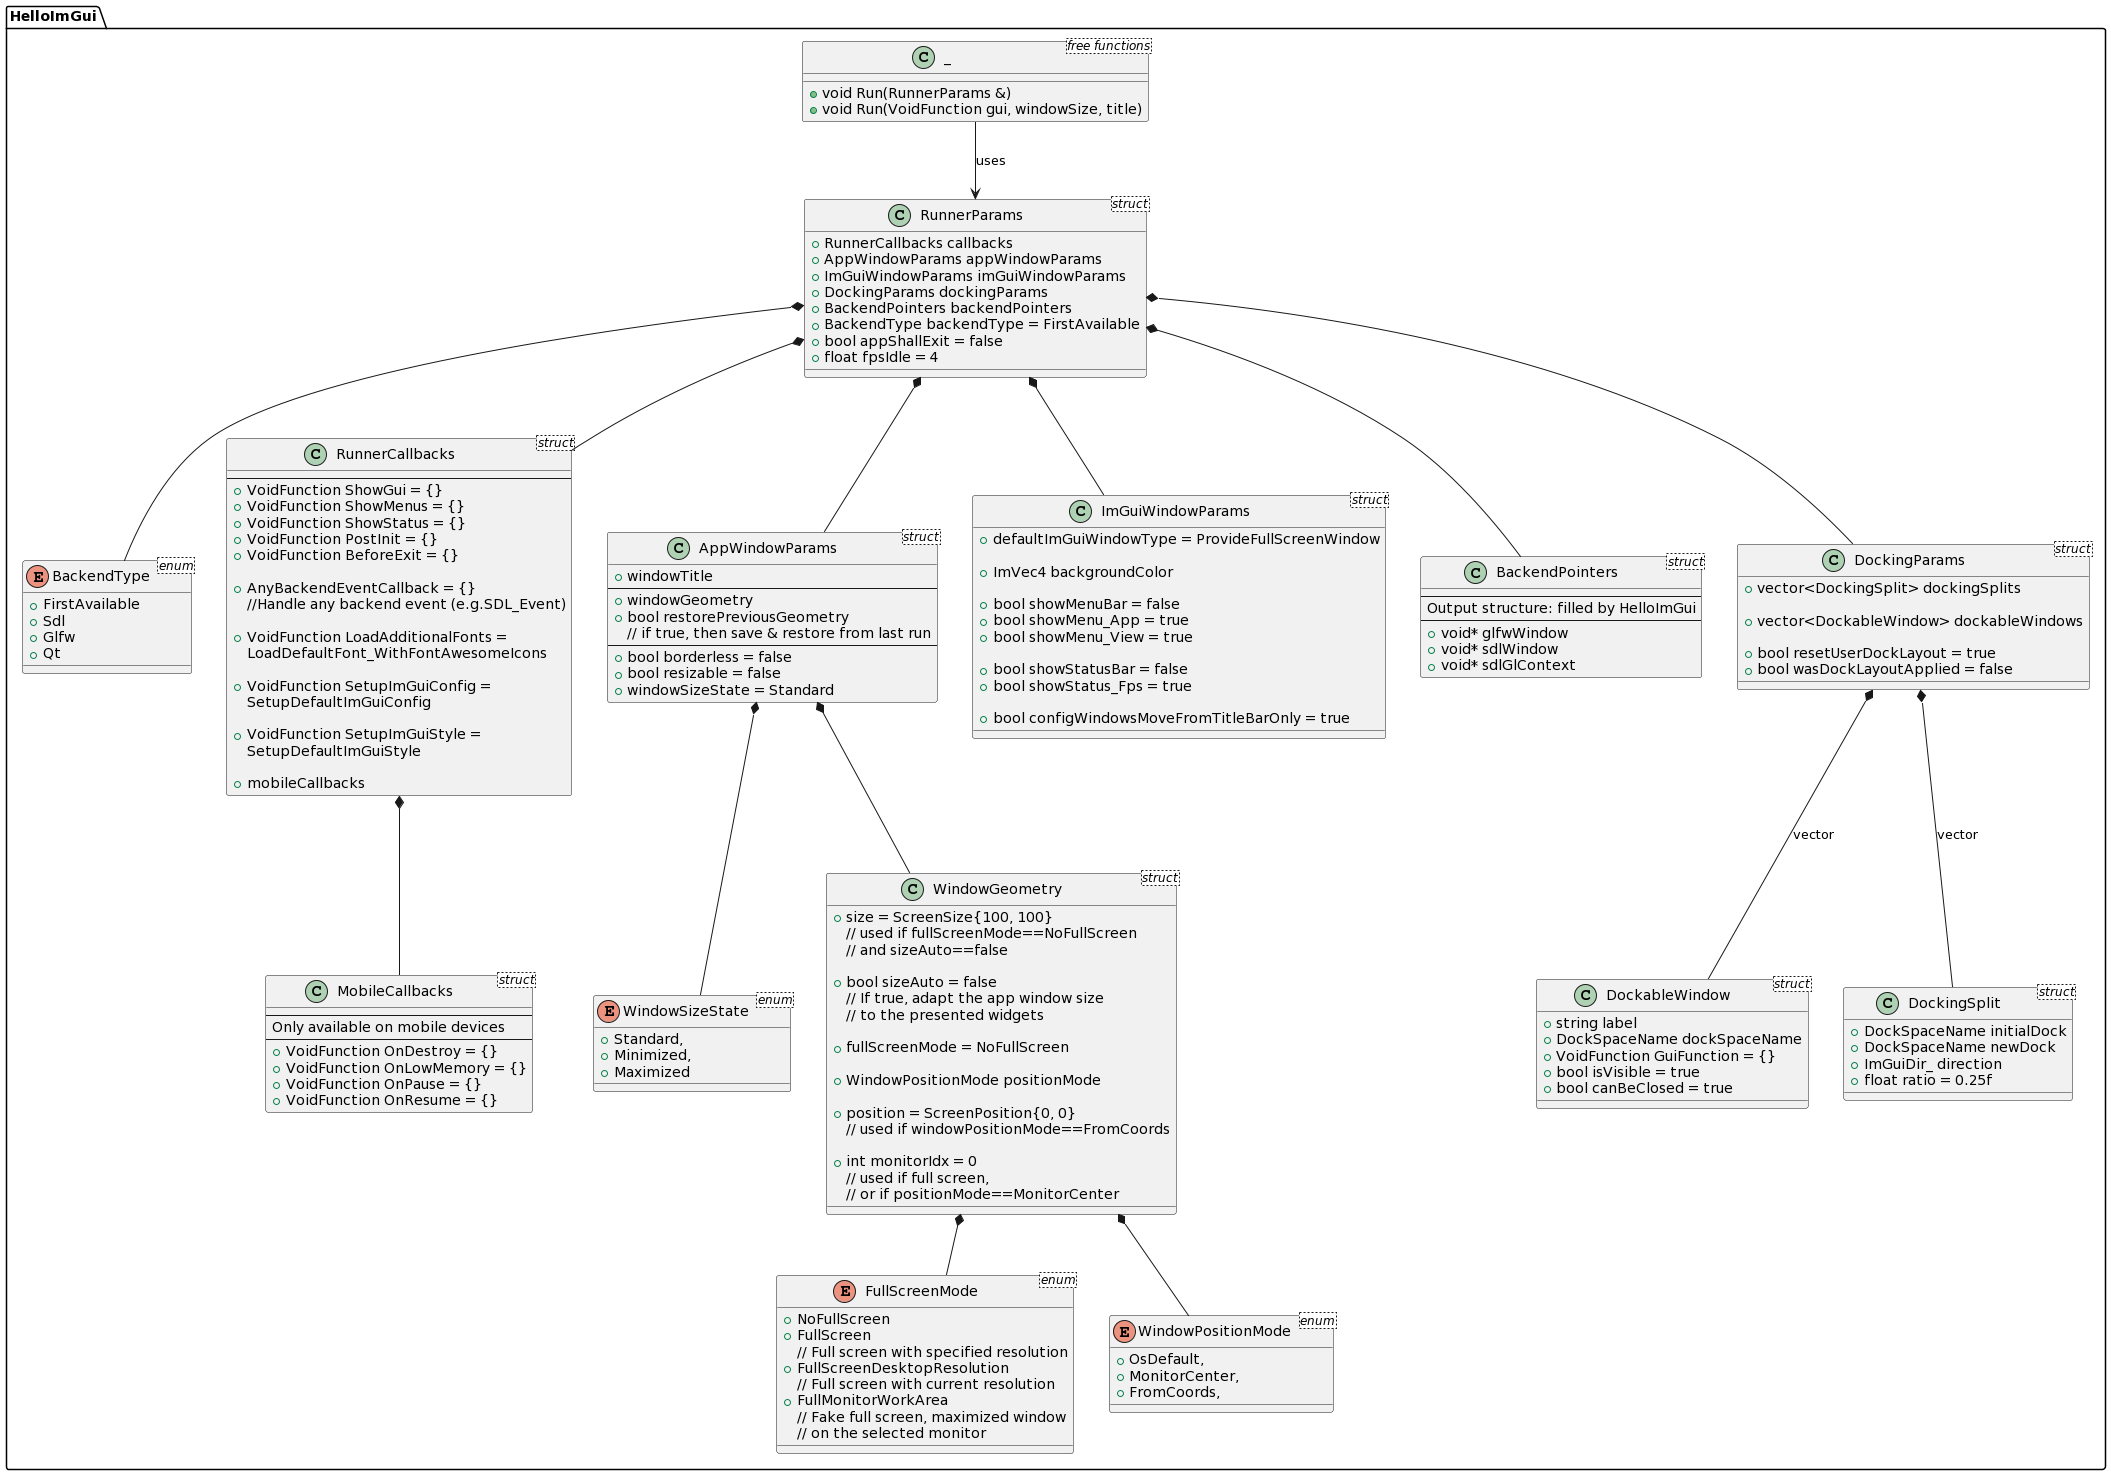
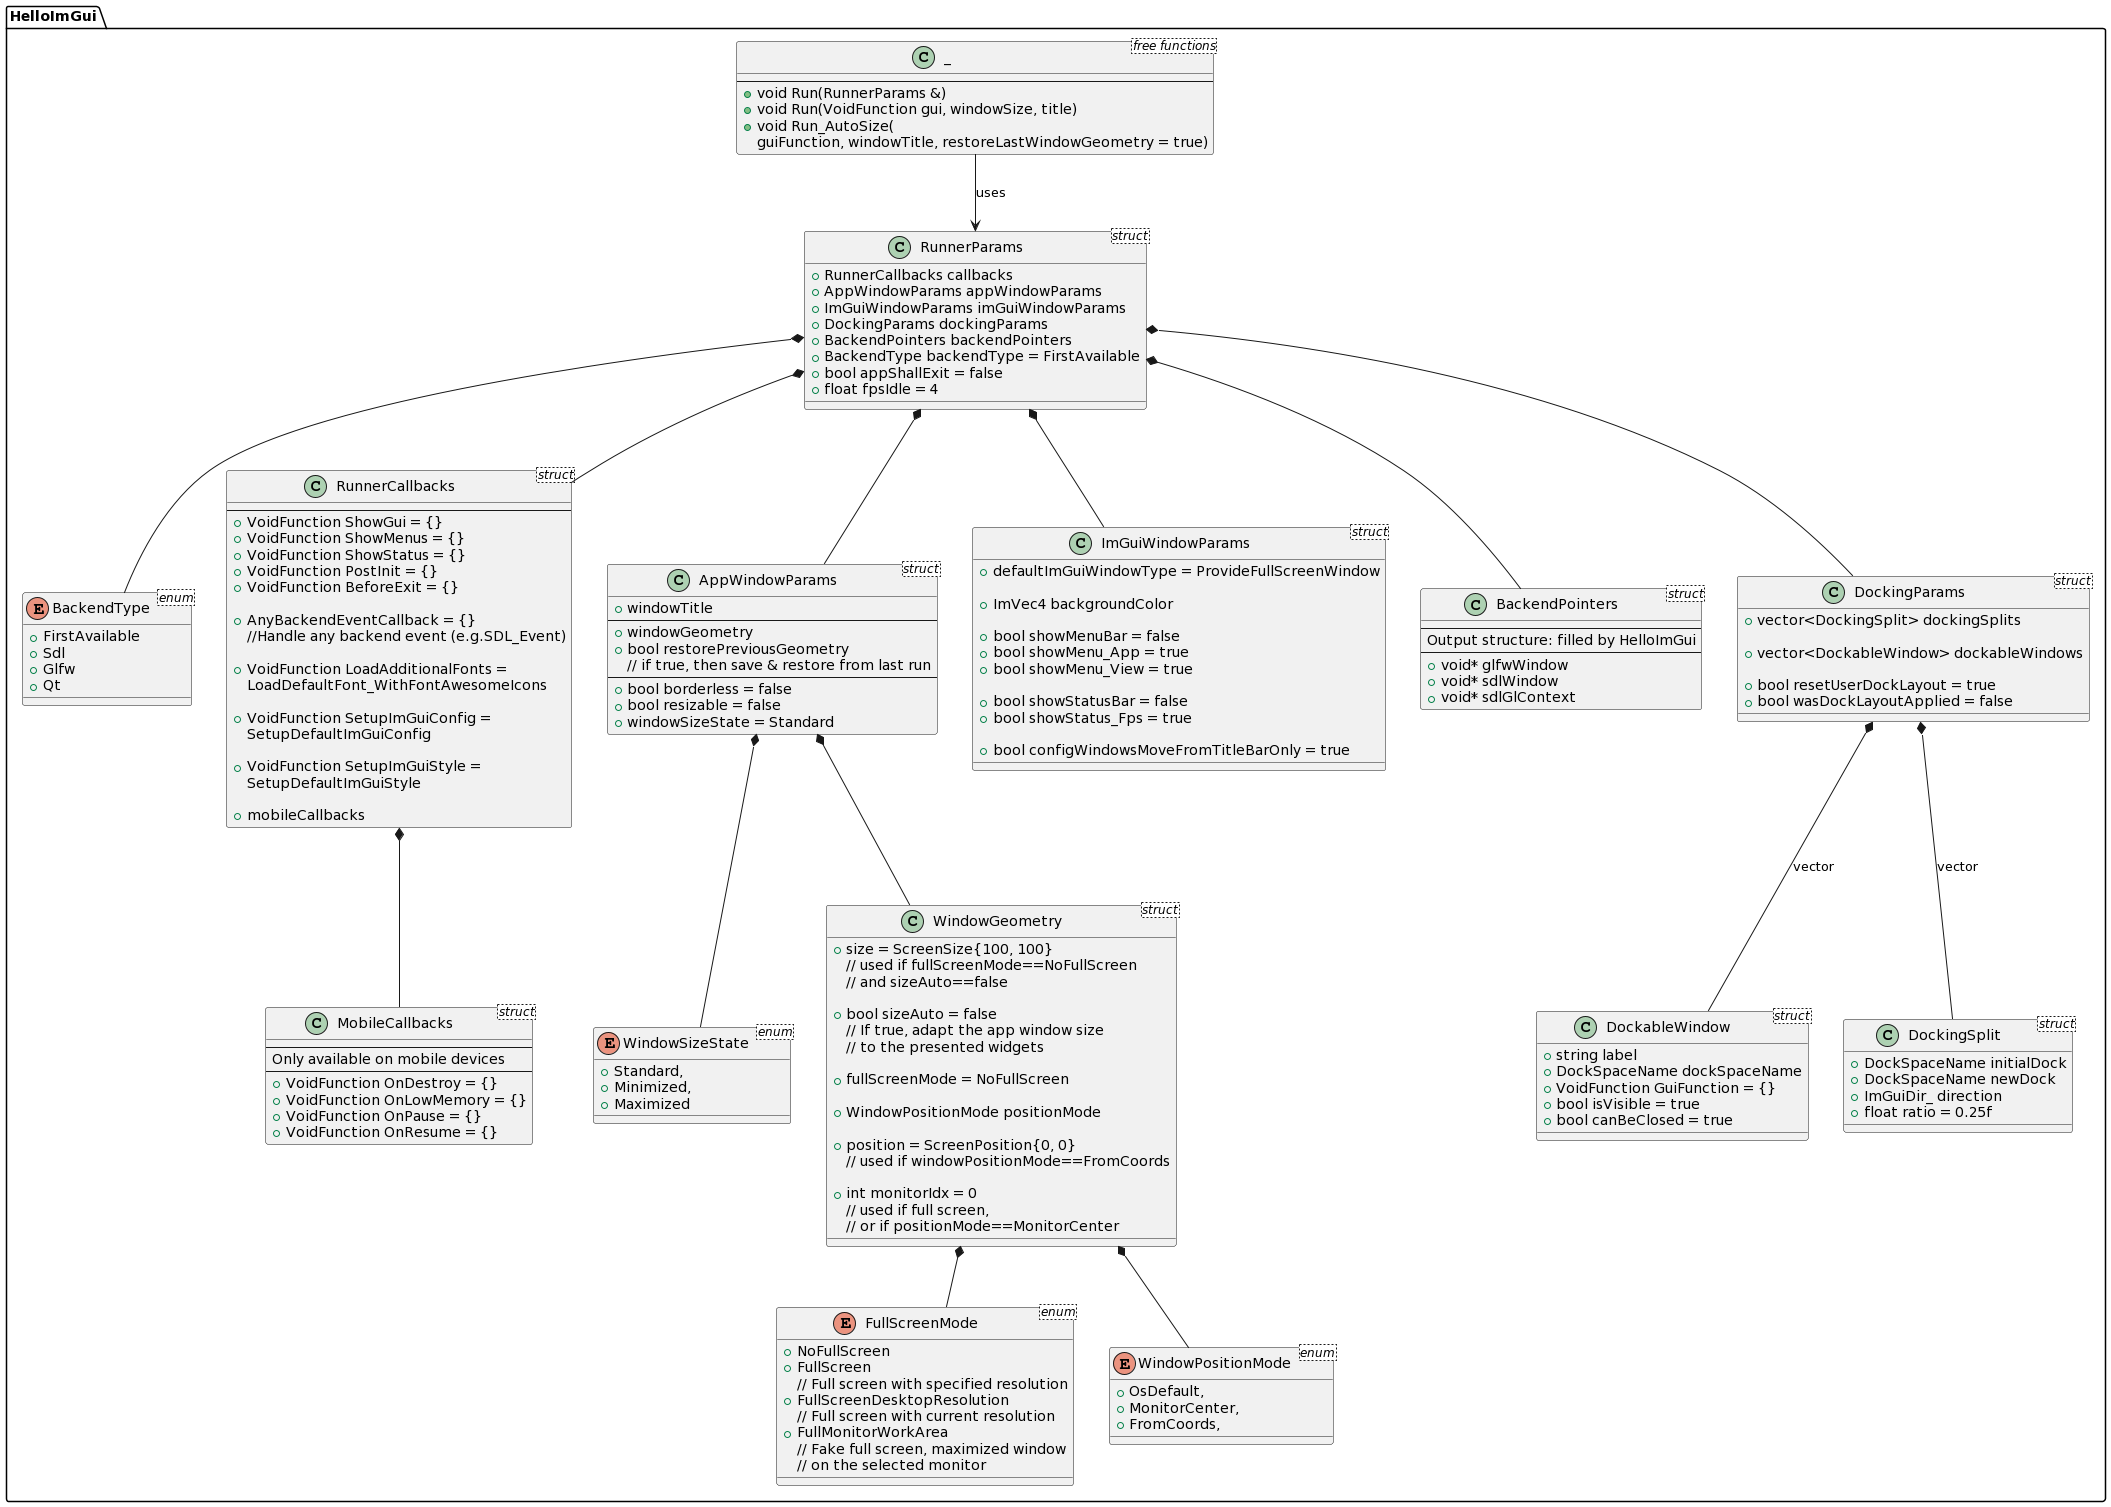
Update diagram

diff --git a/src/hello_imgui/hello_imgui.h b/src/hello_imgui/hello_imgui.h
@@ -12,7 +12,7 @@
 
 __HelloImGui::Run()__ will run an application with a single call.
 
-Two signatures are provided:
+Three signatures are provided:
 
 * `HelloImGui::Run(RunnerParams &)`: full signature, the most customizable version.
    Runs an application whose params and Gui are provided

diff --git a/src/hello_imgui/hello_imgui_api.md b/src/hello_imgui/hello_imgui_api.md
@@ -36,7 +36,7 @@ See [hello_imgui.h](hello_imgui.h).
 
 __HelloImGui::Run()__ will run an application with a single call.
 
-Two signatures are provided:
+Three signatures are provided:
 
 * `HelloImGui::Run(RunnerParams &)`: full signature, the most customizable version.
    Runs an application whose params and Gui are provided
